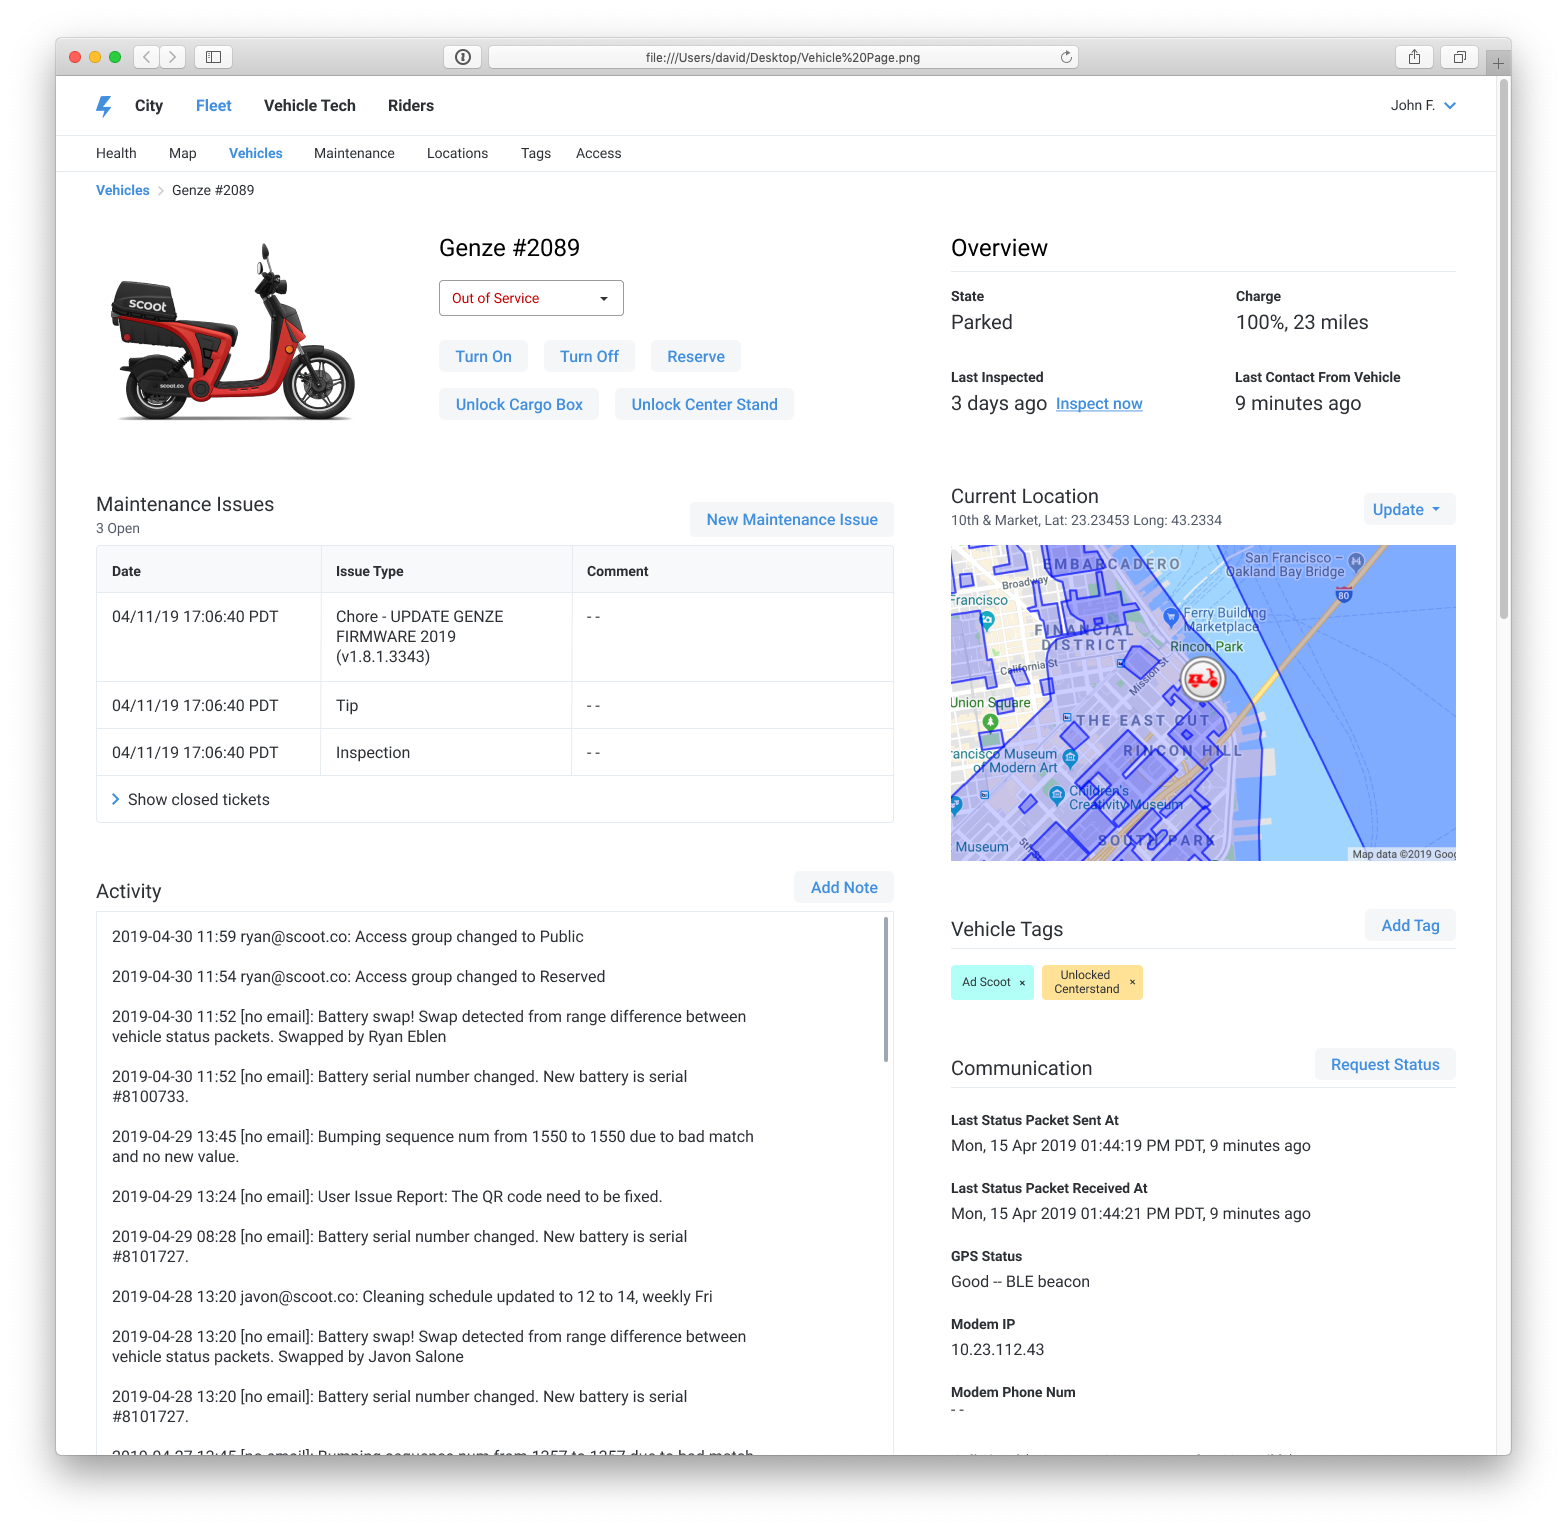
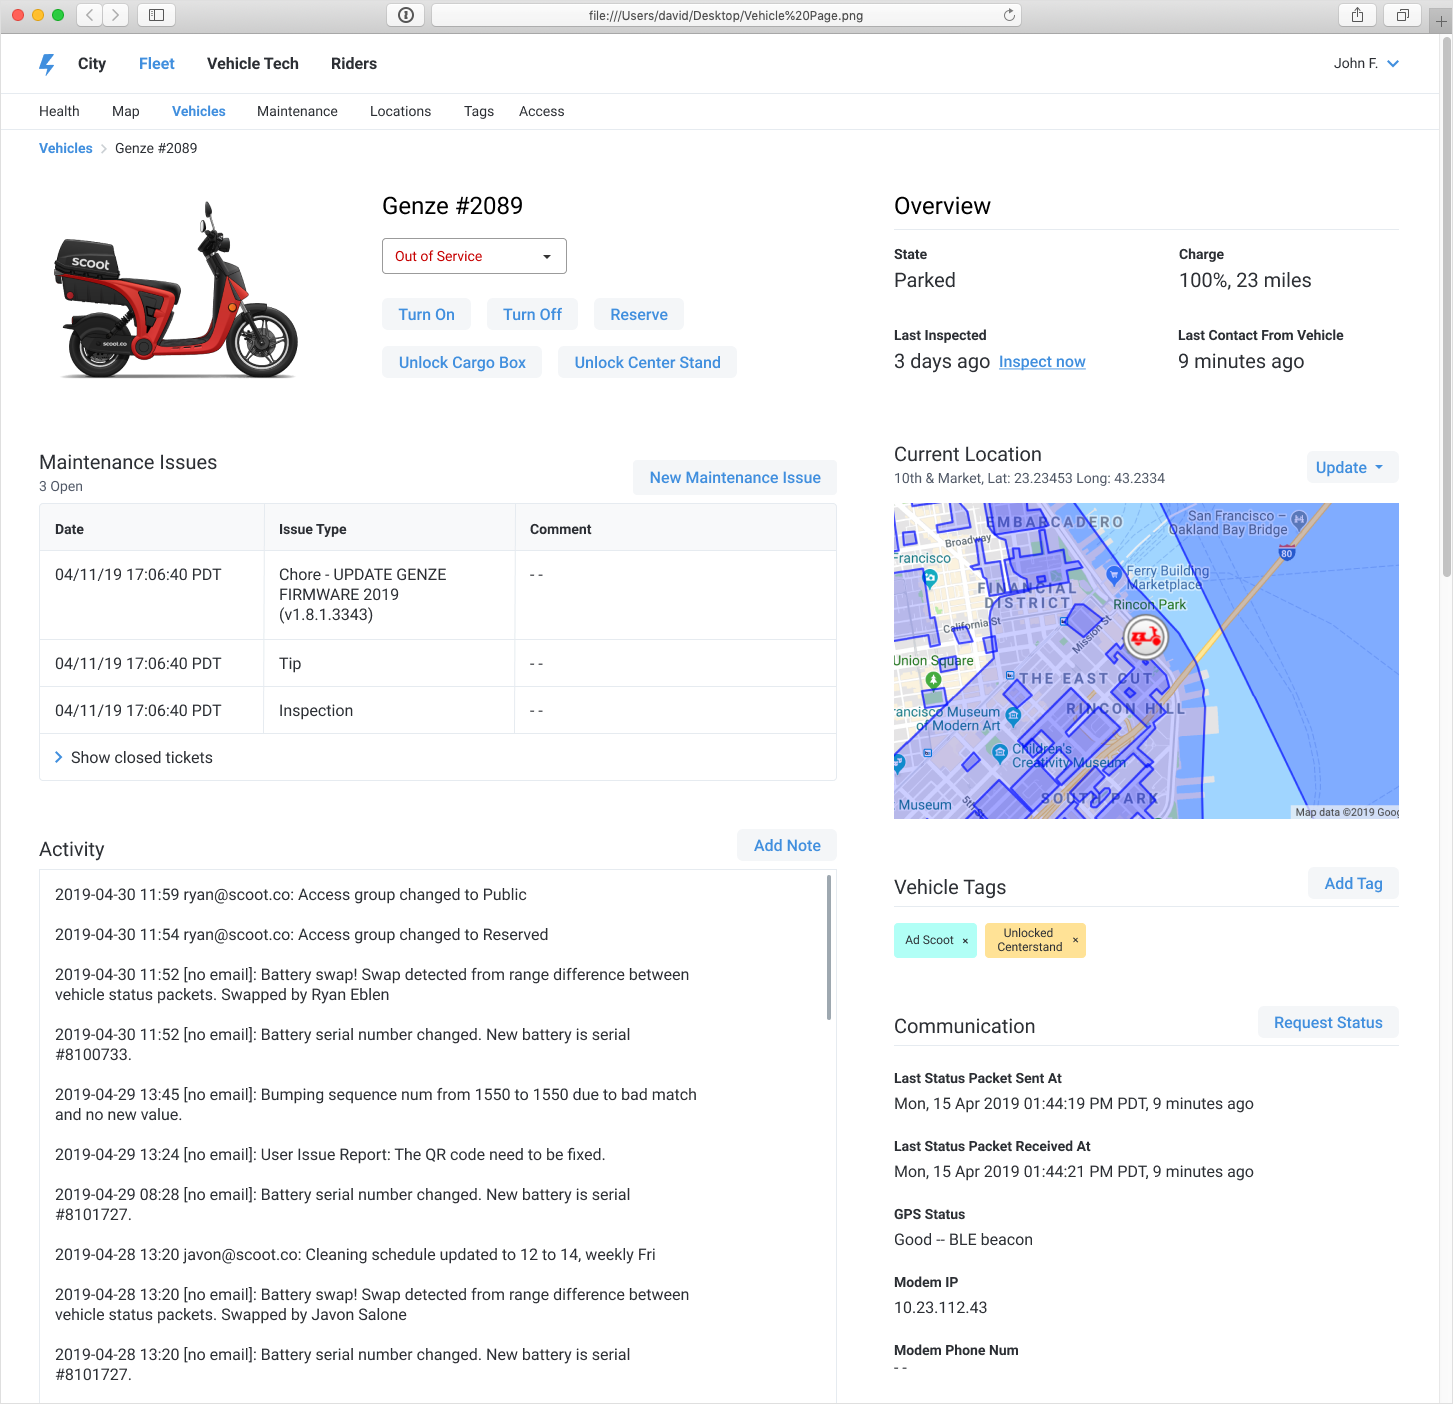
updating responsive

diff --git a/main.css b/main.css
@@ -113,8 +113,6 @@ body {
 
 .flex-section {
   width: 100%;
-  display: -webkit-flex;
-  display: -ms-flexbox;
   display: flex;
 }
 
@@ -177,6 +175,25 @@ body {
   }
   .divider {
     padding-bottom: 164px;
+  }
+  .flex-section {
+    flex-direction: row;
+  }
+}
+
+@media screen and (max-width: 900px) {
+  .flex-section {
+    flex-direction: column;
+  }
+  .left {
+    margin-right: 0;
+  }
+  .right {
+    margin-top: 64px;
+    width: 100%;
+  }
+  body {
+    text-align: center;
   }
 }
 
